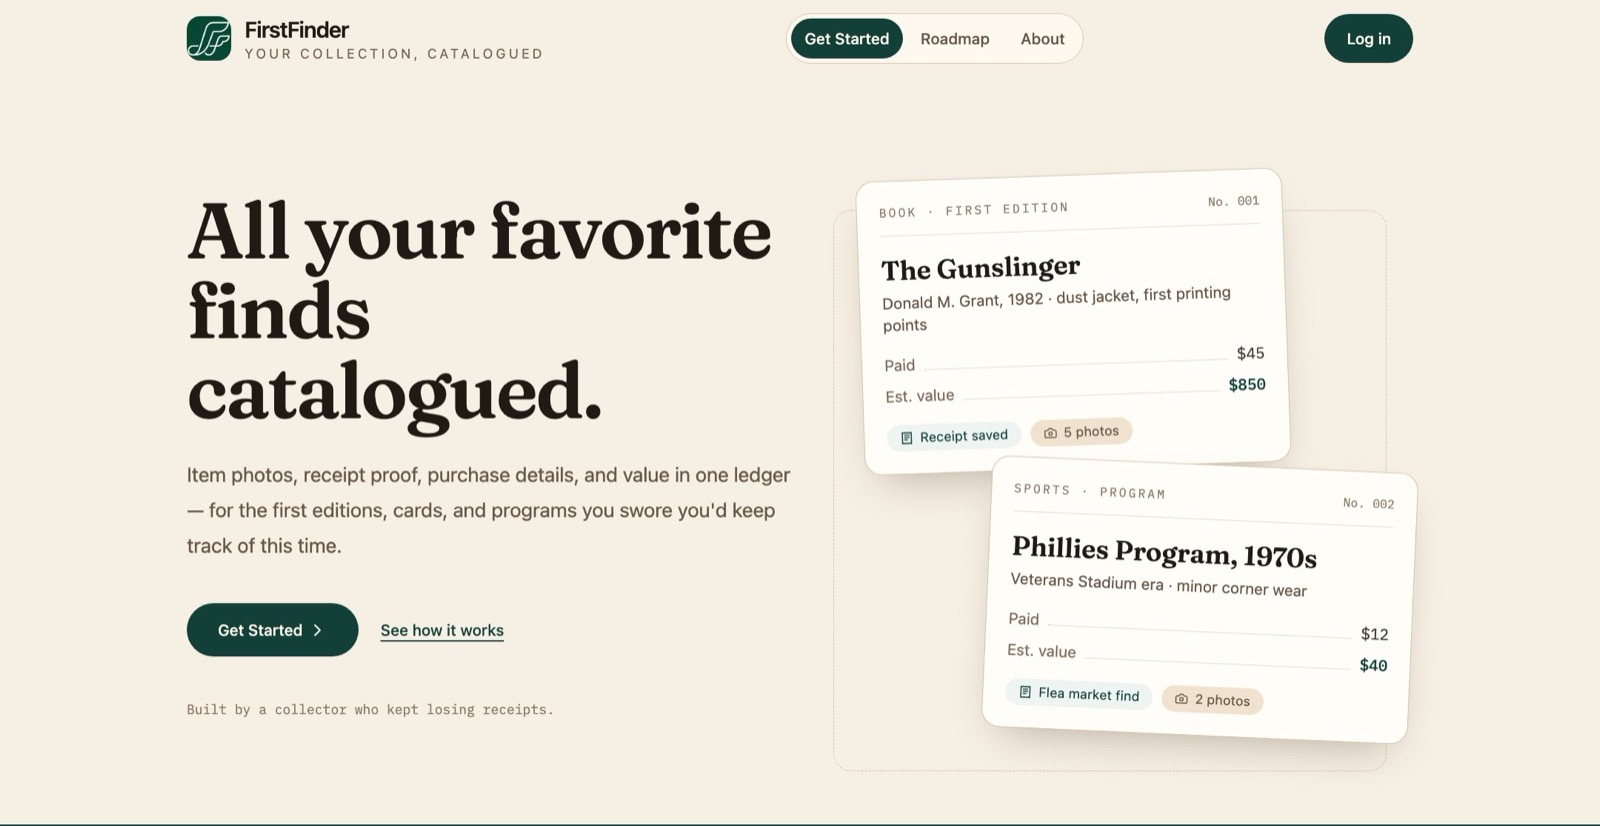
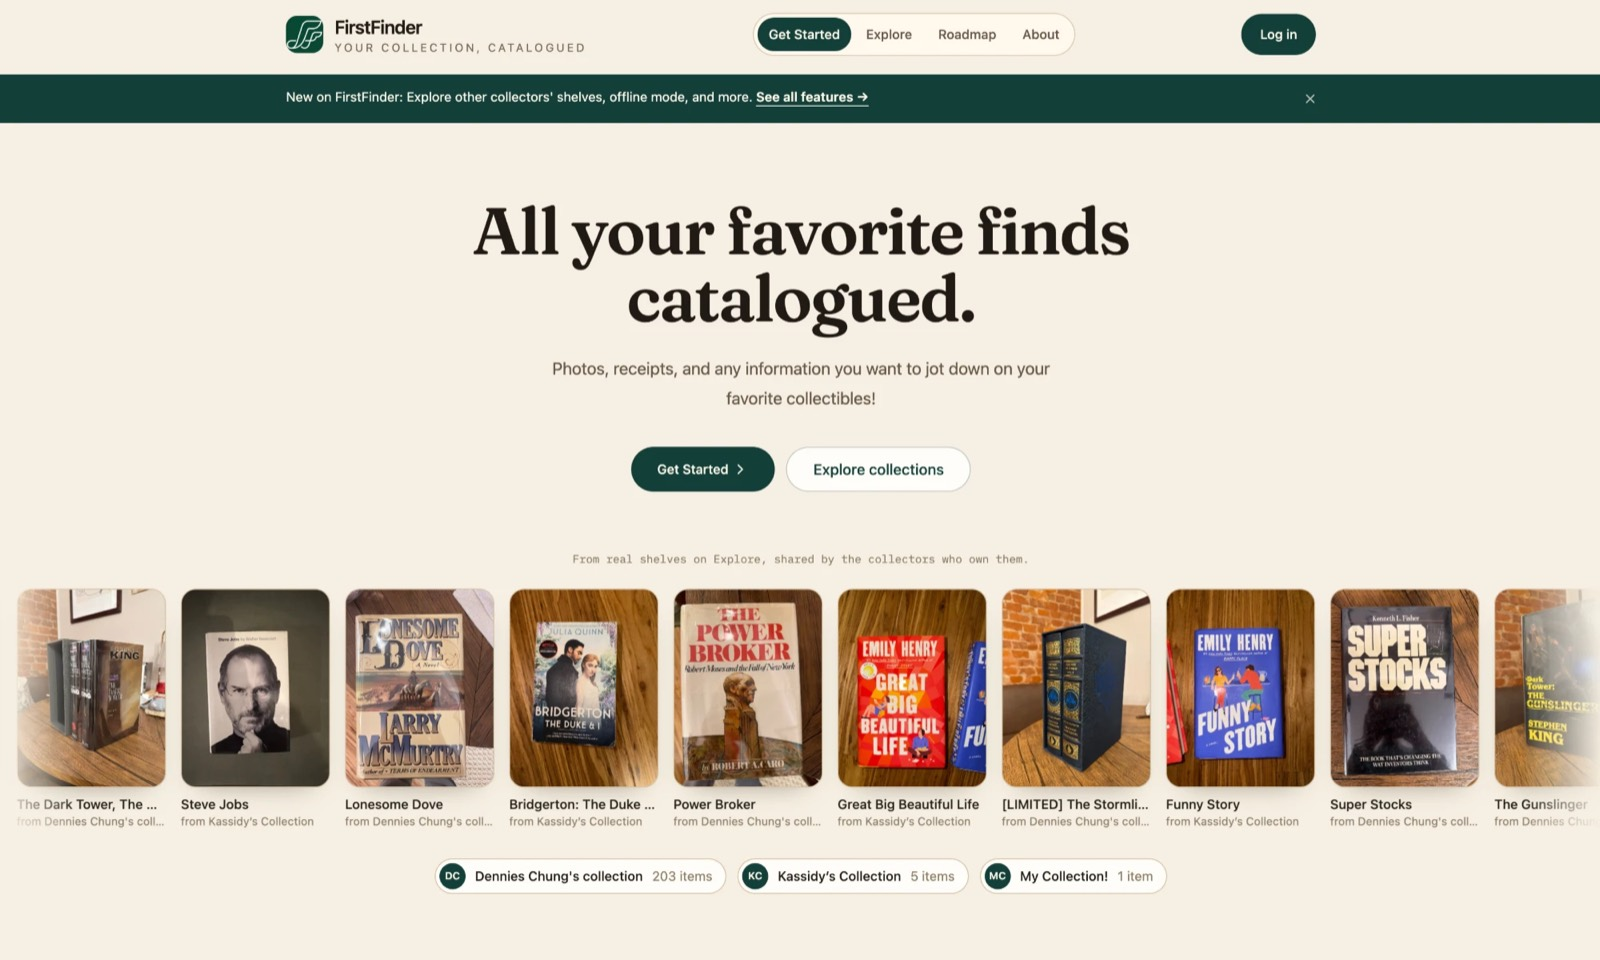
Clean up About heading, fix Q&A order on mobile, update FirstFinder shot (#1)
The About heading rendered at a fixed 44px, so "Customer-focused" and
"Outcome-oriented" broke mid-word on a phone and left the trailing em
dashes floating on their own lines. Dropped the dashes, wrapped each
statement in a non-breaking .line span, and scaled the heading with
clamp(27px, 8.2vw, 44px) so it stays 44px on desktop and never splits
a word down to 320px.

The Q&A grid was ordered 01, 03, 02, 04 in source so the two desktop
columns would read 01/02 and 03/04. That order showed through verbatim
once the grid collapsed to one column on mobile. Source is now 01-04
and the desktop grid fills with grid-auto-flow: column, which keeps the
desktop positions identical.

Also replaced the FirstFinder screenshot with the current homepage and
gave #about and #personal-work scroll-margin-top so anchor jumps land
below the fixed pill instead of under it.

diff --git a/index.html b/index.html
@@ -451,6 +451,9 @@
       padding: 58px 28px 0;
     }
 
+    /* Anchor jumps land below the fixed pill + menu button (26px top + 56px tall) */
+    #about, #personal-work{ scroll-margin-top: 96px; }
+
     .bio-grid{
       display: grid;
       grid-template-columns: 1.15fr .85fr;
@@ -460,9 +463,20 @@
 
     .bio h2{
       margin: 0 0 22px;
-      font-size: 44px;
+      font-size: clamp(27px, 8.2vw, 44px);
+      line-height: 1.12;
       font-weight: 500;
       letter-spacing: -0.02em;
+      hyphens: none;
+      -webkit-hyphens: none;
+      overflow-wrap: normal;
+      text-wrap: balance;
+    }
+
+    /* Stacked statement lines — each sits on its own line, no dangling dashes */
+    .bio h2 .line{
+      display: block;
+      white-space: nowrap;
     }
 
     .bio p{
@@ -475,6 +489,12 @@
     .qa{
       display: grid;
       grid-template-columns: 1fr 1fr;
+      /* Fill top-to-bottom, then across, so source order 01→04 reads
+         01 | 03
+         02 | 04
+         on desktop and 01→02→03→04 straight down on mobile. */
+      grid-auto-flow: column;
+      grid-template-rows: auto auto;
       gap: 26px 36px;
       margin-top: 20px;
     }
@@ -506,7 +526,8 @@
       .cta-card{ max-width: 520px; }
       .tiles{ grid-template-columns: 1fr; }
       .bio-grid{ grid-template-columns: 1fr; }
-      .qa{ grid-template-columns: 1fr; }
+      .qa{ grid-template-columns: 1fr; grid-auto-flow: row; grid-template-rows: none; }
+      .personal-work-heading{ font-size: clamp(27px, 8.2vw, 44px); line-height: 1.12; }
     }
 
     /* Personal Work hover (match Selected Work feel) */
@@ -762,7 +783,7 @@
     <div class="bio-inner">
       <div class="bio-grid">
         <div>
-          <h2>Data-driven —<br>Customer-focused—<br>Outcome-oriented—</h2>
+          <h2><span class="line">Data-driven</span><span class="line">Customer-focused</span><span class="line">Outcome-oriented</span></h2>
         </div>
 
         <div>
@@ -773,13 +794,13 @@
             </div>
 
             <div class="item">
-              <div><span class="num">03</span><span class="q">How do I help?</span></div>
-              <p>I turn messy user journeys into clean flows: diagnose friction, prioritize the leverage points, ship experiments, and scale what works.</p>
+              <div><span class="num">02</span><span class="q">What do I care about?</span></div>
+              <p>Simple UX, measurable impact, and craft. Also: books, tennis, and building side projects that teach me new tools.</p>
             </div>
 
             <div class="item">
-              <div><span class="num">02</span><span class="q">What do I care about?</span></div>
-              <p>Simple UX, measurable impact, and craft. Also: books, tennis, and building side projects that teach me new tools.</p>
+              <div><span class="num">03</span><span class="q">How do I help?</span></div>
+              <p>I turn messy user journeys into clean flows: diagnose friction, prioritize the leverage points, ship experiments, and scale what works.</p>
             </div>
 
             <div class="item">
